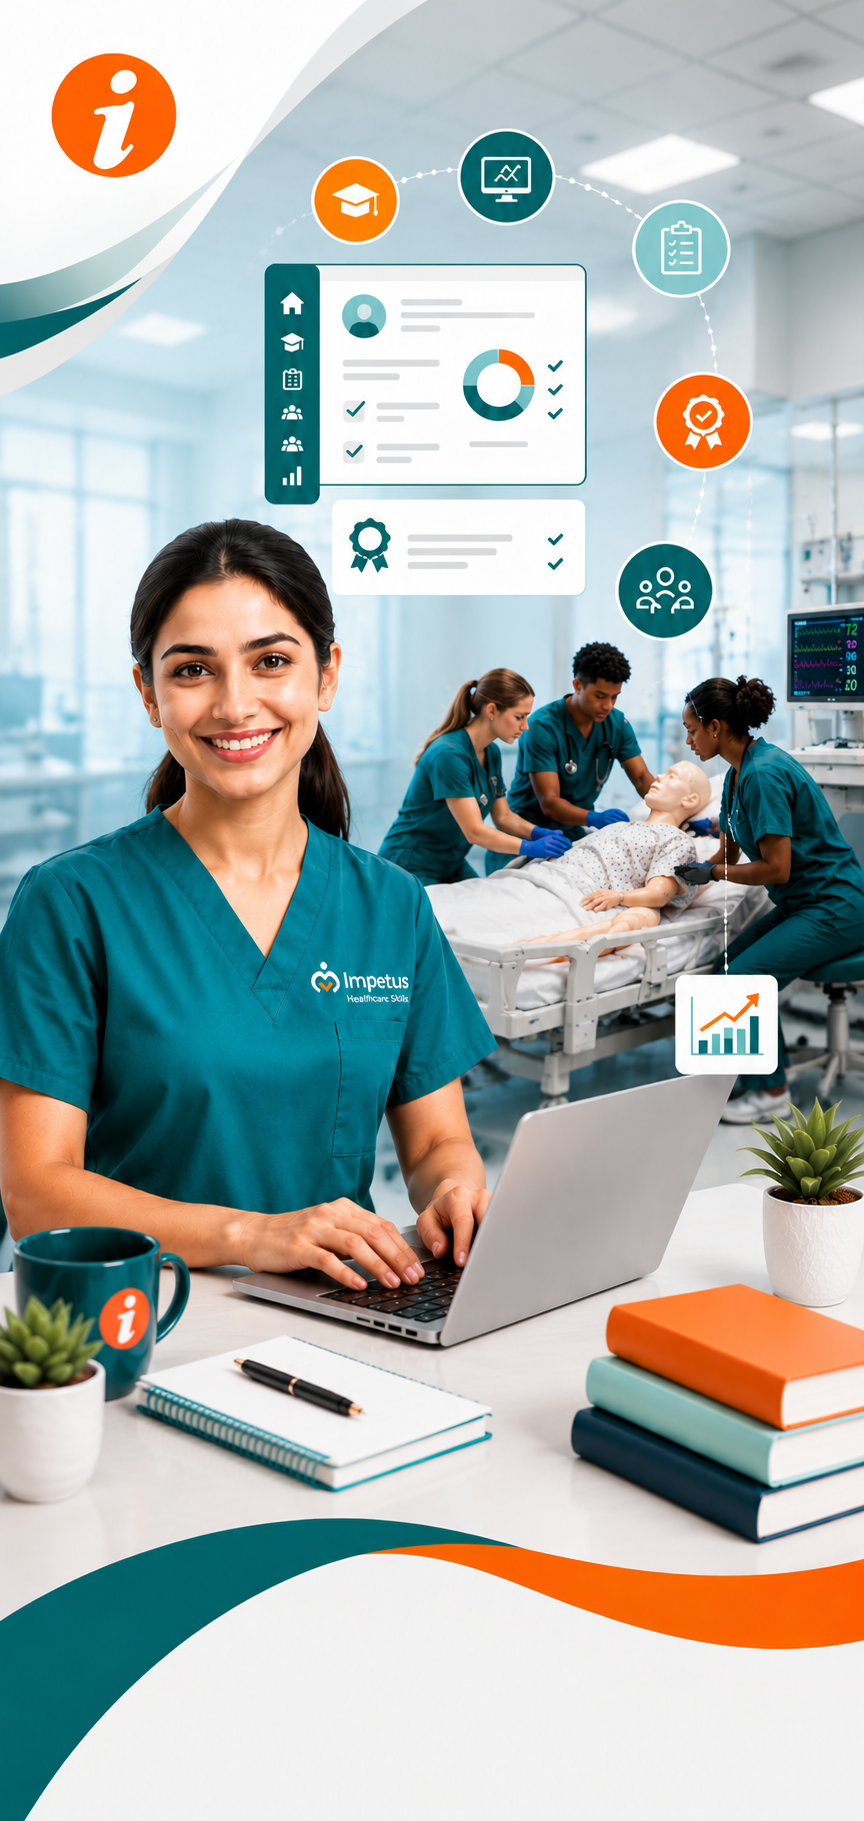
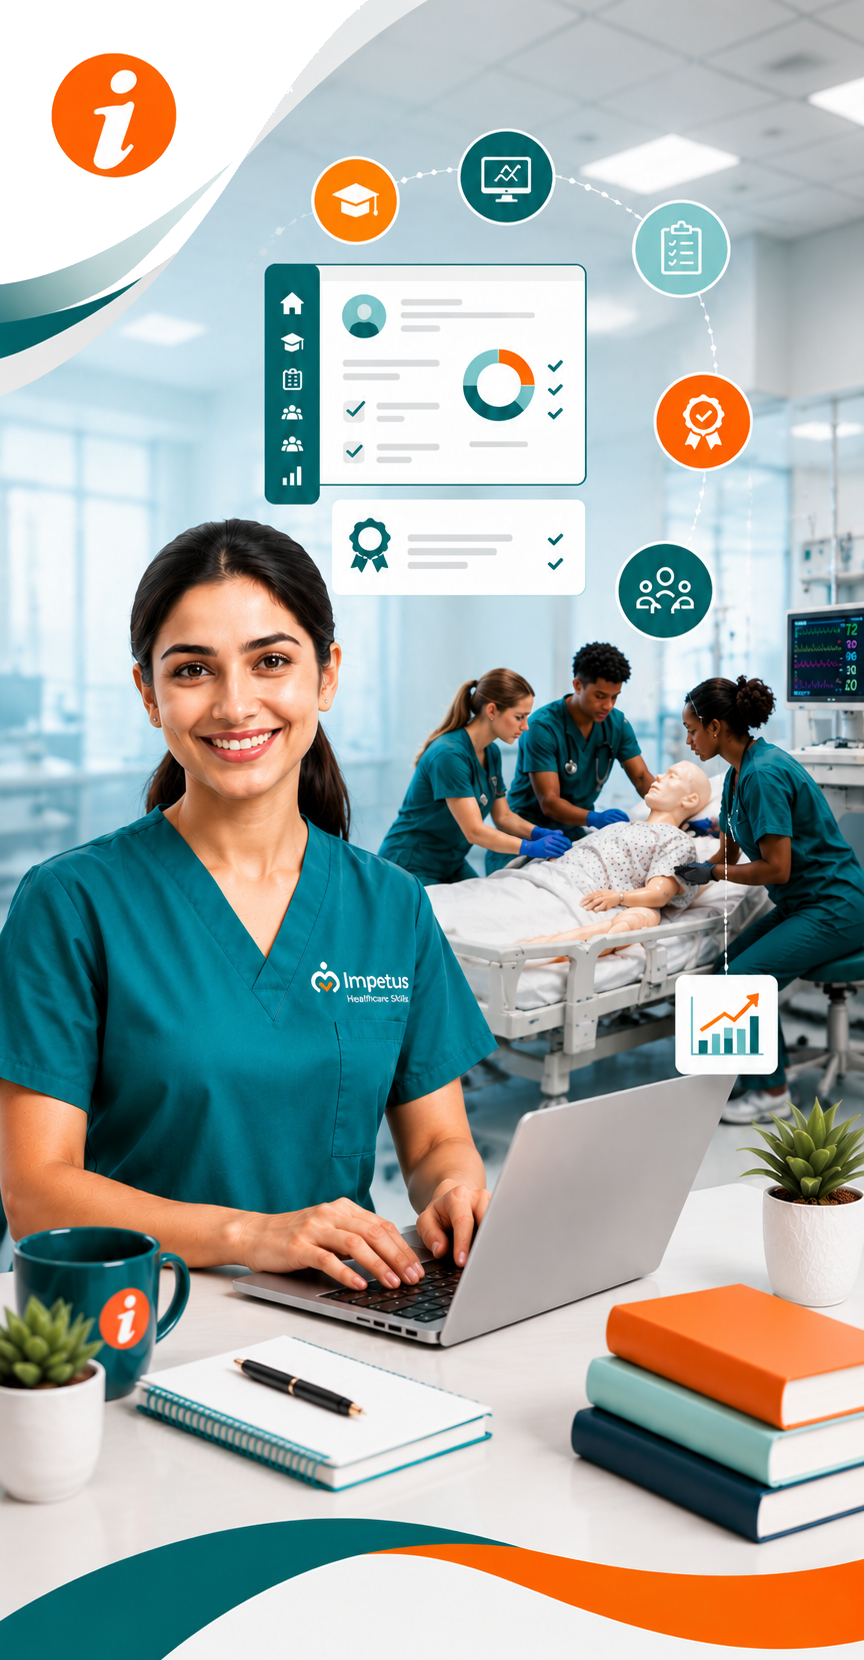
update code

diff --git a/resources/views/welcome/partials/main.blade.php b/resources/views/welcome/partials/main.blade.php
@@ -285,15 +285,15 @@
 
             <div class="grid grid-cols-1 gap-5 sm:grid-cols-2 lg:grid-cols-3">
                 @foreach ([
-        ['title' => 'Advanced Simulation Training', 'text' => 'We provide realistic, skill-oriented simulation training programs that help learners develop hands-on clinical experience in a safe and controlled environment before direct patient care exposure.', 'icon' => 'M19.428 15.428a2 2 0 00-1.022-.547l-2.387-.477a6 6 0 00-3.86.517l-.318.158a6 6 0 01-3.86.517L6.05 15.21a2 2 0 00-1.806.547M8 4h8l-1 1v5.172a2 2 0 00.586 1.414l5 5c1.26 1.26.367 3.414-1.415 3.414H4.828c-1.782 0-2.674-2.154-1.414-3.414l5-5A2 2 0 009 9.172V5L8 4z'],
-        ['title' => 'Comprehensive Learning', 'text' => 'We offer flexible, accessible online courses with interactive learning modules, recorded sessions, assessments, and digital study materials, allowing healthcare professionals to learn anytime and from any location.', 'icon' => 'M9.75 17L9 20l-1 1h8l-1-1-.75-3M3 13h18M5 17h14a2 2 0 002-2V5a2 2 0 00-2-2H5a2 2 0 00-2 2v10a2 2 0 002 2z'],
-        ['title' => 'Specialized Healthcare Programs', 'text' => 'Conducts training in nursing specialties including; life support, basic/advanced health assessment, critical care nursing, emergency nursing, airway management, neonatal care, infection control, and clinical skills.', 'icon' => 'M4.318 6.318a4.5 4.5 0 000 6.364L12 20.364l7.682-7.682a4.5 4.5 0 00-6.364-6.364L12 7.636l-1.318-1.318a4.5 4.5 0 00-6.364 0z'],
-        ['title' => 'Industry-Relevant Curriculum', 'text' => 'Training programs are designed according to current healthcare standards, evidence-based practices, and professional competency requirements to ensure practical applicability in clinical settings.', 'icon' => 'M12 6.253v13m0-13C10.832 5.477 9.246 5 7.5 5S4.168 5.477 3 6.253v13C4.168 18.477 5.754 18 7.5 18s3.332.477 4.5 1.253m0-13C13.168 5.477 14.754 5 16.5 5c1.747 0 3.332.477 4.5 1.253v13C19.832 18.247 18.247 18 16.5 18c-1.746 0-3.332.477-4.5 1.253'],
-        ['title' => 'Experienced Educators', 'text' => 'The company is supported by highly qualified healthcare educators, clinical experts, and industry professionals with extensive academic and practical experience.', 'icon' => 'M17 20h5v-2a3 3 0 00-5.356-1.857M17 20H7m10 0v-2c0-.656-.126-1.283-.356-1.857M7 20H2v-2a3 3 0 015.356-1.857M7 20v-2c0-.656.126-1.283.356-1.857m0 0a5.002 5.002 0 019.288 0M15 7a3 3 0 11-6 0 3 3 0 016 0zm6 3a2 2 0 11-4 0 2 2 0 014 0zM7 10a2 2 0 11-4 0 2 2 0 014 0z'],
-        ['title' => 'Focus on Skill Development', 'text' => 'It emphasizes competency-based education and outcome-oriented training to improve clinical decision-making, patient safety, and professional confidence.', 'icon' => 'M9 12l2 2 4-4M7.835 4.697a3.42 3.42 0 001.946-.806 3.42 3.42 0 014.438 0 3.42 3.42 0 001.946.806 3.42 3.42 0 013.138 3.138 3.42 3.42 0 00.806 1.946 3.42 3.42 0 010 4.438 3.42 3.42 0 00-.806 1.946 3.42 3.42 0 01-3.138 3.138 3.42 3.42 0 00-1.946.806 3.42 3.42 0 01-4.438 0 3.42 3.42 0 00-1.946-.806 3.42 3.42 0 01-3.138-3.138z'],
-        ['title' => 'Technology-Driven Education', 'text' => 'Integrates modern technologies such as virtual classrooms, simulation scenarios, online assessments, digital certifications, and e-learning platforms.', 'icon' => 'M12 18h.01M8 21h8a2 2 0 002-2V5a2 2 0 00-2-2H8a2 2 0 00-2 2v14a2 2 0 002 2z'],
-        ['title' => 'Continuing Nursing Education', 'text' => 'Supports lifelong learning through structured continuing education programs and skill upgradation courses for healthcare professionals.', 'icon' => 'M9.663 17h4.673M12 3v1m6.364 1.636l-.707.707M21 12h-1M4 12H3m3.343-5.657l-.707-.707m2.828 9.9a5 5 0 117.072 0l-.548.547A3.374 3.374 0 0014 18.469V19a2 2 0 11-4 0v-.531c0-.895-.356-1.754-.988-2.386l-.548-.547z'],
-        ['title' => 'Commitment to Quality Healthcare Education', 'text' => 'We are profoundly dedicated to improving healthcare workforce competence and strengthening patient care outcomes through high-quality, comprehensive education and training services.', 'icon' => 'M9 12l2 2 4-4M7.835 4.697a3.42 3.42 0 001.946-.806 3.42 3.42 0 014.438 0 3.42 3.42 0 001.946.806 3.42 3.42 0 013.138 3.138 3.42 3.42 0 00.806 1.946 3.42 3.42 0 010 4.438 3.42 3.42 0 00-.806 1.946 3.42 3.42 0 01-3.138 3.138 3.42 3.42 0 00-1.946.806 3.42 3.42 0 01-4.438 0 3.42 3.42 0 00-1.946-.806 3.42 3.42 0 01-3.138-3.138z'],
+        ['title' => 'Advanced Simulation Training', 'text' => 'Our realistic, simulation-based training programs provide healthcare learners with hands-on clinical experience in a safe, controlled environment. Through immersive practice and expert guidance, participants build essential clinical skills, critical thinking, confidence, and teamwork before delivering direct patient care in real healthcare settings.', 'icon' => 'M19.428 15.428a2 2 0 00-1.022-.547l-2.387-.477a6 6 0 00-3.86.517l-.318.158a6 6 0 01-3.86.517L6.05 15.21a2 2 0 00-1.806.547M8 4h8l-1 1v5.172a2 2 0 00.586 1.414l5 5c1.26 1.26.367 3.414-1.415 3.414H4.828c-1.782 0-2.674-2.154-1.414-3.414l5-5A2 2 0 009 9.172V5L8 4z'],
+        ['title' => 'Comprehensive Online Learning', 'text' => 'Our flexible online learning platform offers interactive courses, digital study materials, and competency-based assessments, enabling healthcare professionals to learn anytime, anywhere. Self-paced modules enhance clinical knowledge, strengthen professional competencies, and support continuous learning while accommodating individual schedules and career development needs.', 'icon' => 'M9.75 17L9 20l-1 1h8l-1-1-.75-3M3 13h18M5 17h14a2 2 0 002-2V5a2 2 0 00-2-2H5a2 2 0 00-2 2v10a2 2 0 002 2z'],
+        ['title' => 'Specialized Healthcare Programs', 'text' => 'We conduct specialized training across nursing and healthcare disciplines, including Basic Life Support, Health Assessment, Critical Care, Emergency Nursing, Airway Management, Neonatal Care, Infection Prevention and Control, and Advanced Clinical Skills, enhancing clinical competence, professional confidence, and quality patient care.', 'icon' => 'M4.318 6.318a4.5 4.5 0 000 6.364L12 20.364l7.682-7.682a4.5 4.5 0 00-6.364-6.364L12 7.636l-1.318-1.318a4.5 4.5 0 00-6.364 0z'],
+        ['title' => 'Industry-Relevant Curriculum', 'text' => 'Our training programs align with current healthcare standards, evidence-based practices, and professional competency requirements, equipping learners with practical, industry-relevant clinical skills that can be confidently applied in real healthcare settings to ensure safe, effective, and high-quality patient care.', 'icon' => 'M12 6.253v13m0-13C10.832 5.477 9.246 5 7.5 5S4.168 5.477 3 6.253v13C4.168 18.477 5.754 18 7.5 18s3.332.477 4.5 1.253m0-13C13.168 5.477 14.754 5 16.5 5c1.747 0 3.332.477 4.5 1.253v13C19.832 18.247 18.247 18 16.5 18c-1.746 0-3.332.477-4.5 1.253'],
+        ['title' => 'Experienced Instructors', 'text' => 'Our training programs are led by qualified healthcare instructors, experienced clinicians, and industry professionals with extensive academic and clinical expertise, ensuring high-quality, competency-based learning, practical skill development, and evidence-informed education that prepares learners for excellence in modern healthcare practice.', 'icon' => 'M17 20h5v-2a3 3 0 00-5.356-1.857M17 20H7m10 0v-2c0-.656-.126-1.283-.356-1.857M7 20H2v-2a3 3 0 015.356-1.857M7 20v-2c0-.656.126-1.283.356-1.857m0 0a5.002 5.002 0 019.288 0M15 7a3 3 0 11-6 0 3 3 0 016 0zm6 3a2 2 0 11-4 0 2 2 0 014 0zM7 10a2 2 0 11-4 0 2 2 0 014 0z'],
+        ['title' => 'Focus on Skill Development', 'text' => 'Our competency-based, outcome-oriented training enhances clinical knowledge, practical skills, and critical thinking to improve clinical decision-making, strengthen patient safety, build professional confidence, and prepare healthcare professionals to deliver high-quality, evidence-based care across diverse clinical practice settings.', 'icon' => 'M9 12l2 2 4-4M7.835 4.697a3.42 3.42 0 001.946-.806 3.42 3.42 0 014.438 0 3.42 3.42 0 001.946.806 3.42 3.42 0 013.138 3.138 3.42 3.42 0 00.806 1.946 3.42 3.42 0 010 4.438 3.42 3.42 0 00-.806 1.946 3.42 3.42 0 01-3.138 3.138 3.42 3.42 0 00-1.946.806 3.42 3.42 0 01-4.438 0 3.42 3.42 0 00-1.946-.806 3.42 3.42 0 01-3.138-3.138z'],
+        ['title' => 'Technology-Driven Education', 'text' => 'We integrate modern educational technologies, including virtual classrooms, simulation-based learning, online assessments, digital certifications, and e-learning platforms, to deliver engaging learning experiences that enhance learner participation, knowledge retention, clinical competence, and continuous professional development for healthcare professionals.', 'icon' => 'M12 18h.01M8 21h8a2 2 0 002-2V5a2 2 0 00-2-2H8a2 2 0 00-2 2v14a2 2 0 002 2z'],
+        ['title' => 'Continuing Nursing Education', 'text' => 'We support lifelong learning through structured continuing education and skill enhancement programs that help healthcare professionals update clinical knowledge, strengthen competencies, adapt to evolving healthcare practices, maintain professional excellence, and achieve continuous career growth through flexible, learner-centered educational opportunities.', 'icon' => 'M9.663 17h4.673M12 3v1m6.364 1.636l-.707.707M21 12h-1M4 12H3m3.343-5.657l-.707-.707m2.828 9.9a5 5 0 117.072 0l-.548.547A3.374 3.374 0 0014 18.469V19a2 2 0 11-4 0v-.531c0-.895-.356-1.754-.988-2.386l-.548-.547z'],
+        ['title' => 'Commitment to Quality', 'text' => 'We are committed to strengthening healthcare workforce competence through high-quality education and training that enhances clinical knowledge, practical skills, and professional confidence, ultimately improving patient safety, healthcare quality, clinical outcomes, and excellence in healthcare service delivery across diverse practice settings.', 'icon' => 'M9 12l2 2 4-4M7.835 4.697a3.42 3.42 0 001.946-.806 3.42 3.42 0 014.438 0 3.42 3.42 0 001.946.806 3.42 3.42 0 013.138 3.138 3.42 3.42 0 00.806 1.946 3.42 3.42 0 010 4.438 3.42 3.42 0 00-.806 1.946 3.42 3.42 0 01-3.138 3.138 3.42 3.42 0 00-1.946.806 3.42 3.42 0 01-4.438 0 3.42 3.42 0 00-1.946-.806 3.42 3.42 0 01-3.138-3.138z'],
     ] as $strength)
                     @php
                         $iconTheme = $loop->iteration % 2 === 1 ? 'teal' : 'orange';